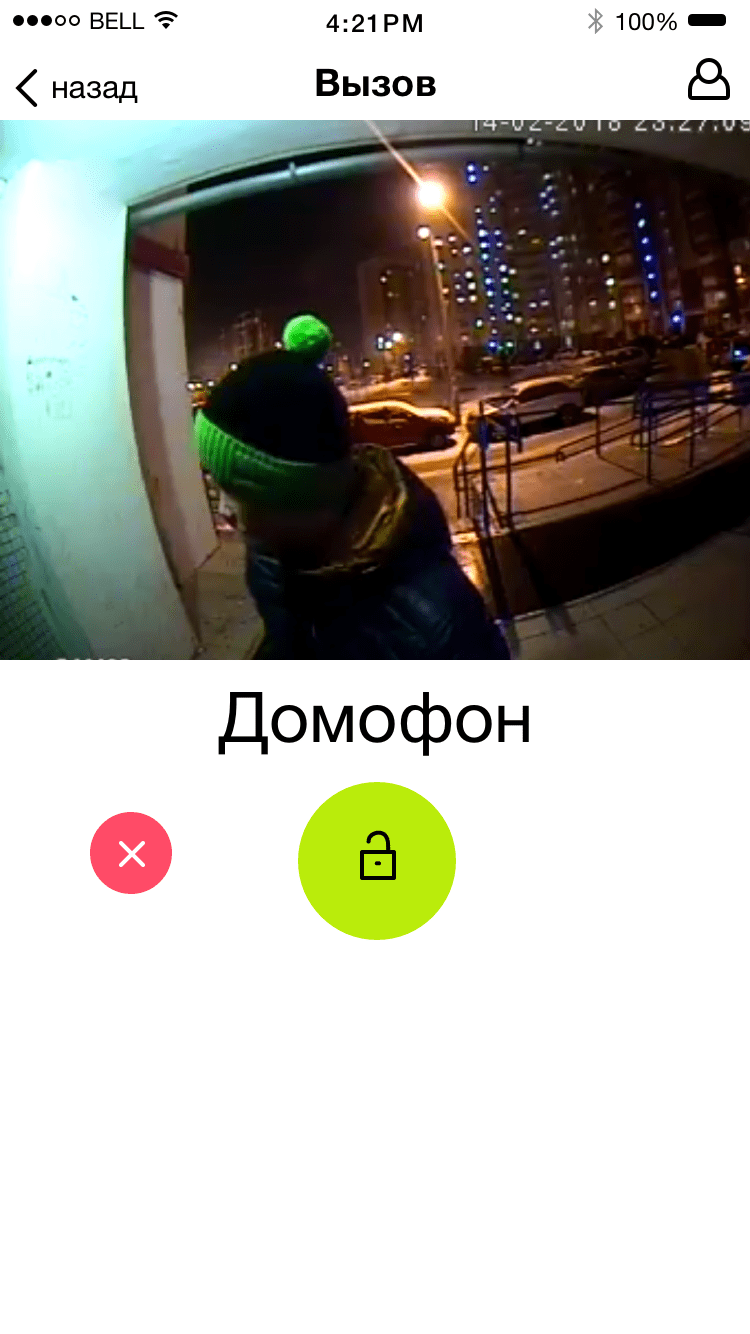
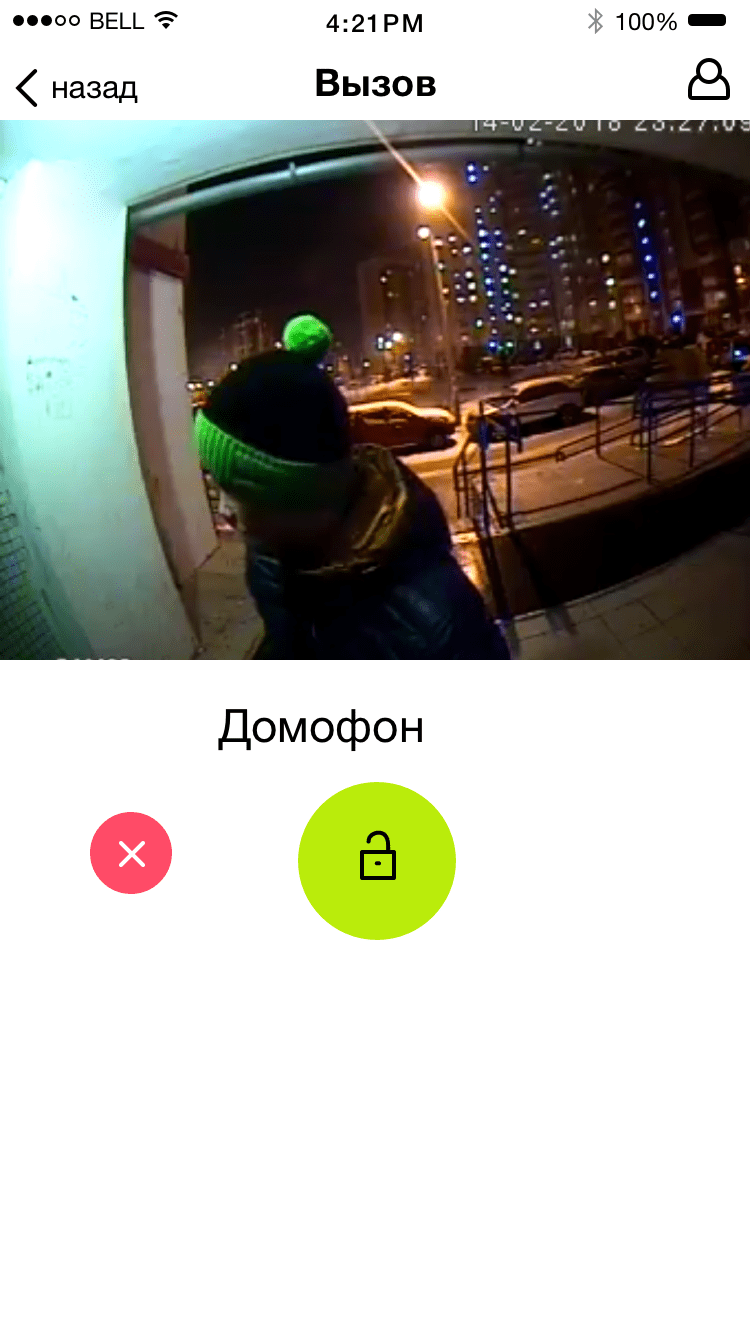
fadsf

Changed region(s): [[0.276, 0.4918, 0.7053, 0.584], [0.2453, 0.3073, 0.3373, 0.3688]]

diff --git a/intercom/index 4.html b/intercom/index 4.html
@@ -1,0 +1,73 @@
+<!DOCTYPE html>
+<html xmlns="http://www.w3.org/1999/xhtml">
+<head>
+<meta http-equiv="Content-Type" content="text/html; charset=UTF-8" />
+
+    <title>Росдомофон</title>
+
+    <link href="css/style.css" type="text/css" rel="stylesheet" />
+
+    <script type="text/javascript" src="js/jquery-1.8.3.min.js"></script>
+    <script type="text/javascript" src="js/main.js"></script>
+
+	<script type="text/javascript">
+		$(document).ready(function(){
+            init();
+		});
+
+	</script>
+
+	<style>
+
+	</style>
+
+</head>
+
+<body>
+
+<p>Итак, начну с обрамления камеры в некий блок. Я попробовал сделать «рамочку» для камеры и эта идея мне не понравилась, и вот почему.</p>
+    <p>Посомтри как выглядел инстаграмм лет 7 назад, когда еще был модный скеоморфизм:
+    </p>
+    <img src="img/ins01.png">
+    <p>А как он выглядит сейчас. Понимаешь разницу? :-)</p>
+    <img src="img/ins02.png">
+    <p>
+        У рамочки есть недостаток: когда камера одна (а обычно так и будет), то эта рамочка выглядит глупо. Я понимаю, что ее можно сделать более изящно, выдрачить каждый пиксель, но она не станет от этого менее странной. Да и пиксели она съедает, это будет хорошо заметно на маленьких телефонах.
+    </p>
+    <img src="img/00@2x.png" class="iphone6">
+    <br>
+<p>Вот новое решение, которое учитывает твои пожелания. А именно, сразу видно, к чему относятся управляющие элементы за счет того, как кнопка «цепляется» за фотку. Замочек теперь такой же, как на экране входящего звонка.</p>
+<p>Убрал акцент с названия камеры. Все-таки, это не новостной заголовок и надпись всегда будет одна и та же. Более того, в теории его можно убрать и ничего не изменится, потому что по картинке все ясно.</p>
+<p>Опять же, такая расстановка требует меньше места на экране. Да и просто более современно выглядит, а-ля матеирал-дизайн.</p>
+    <img src="img/01@2x.png" class="iphone6">
+    <img src="img/02@2x.png" class="iphone6">
+    <br>
+    <img src="img/03@2x.png" class="iphone6">
+    <img src="img/04@2x.png" class="iphone6">
+    <br>
+    <img src="img/05@2x.png" class="iphone6">
+    <img src="img/06@2x.png" class="iphone6">
+    <br>
+    <img src="img/07@2x.png" class="iphone6">
+    <img src="img/08@2x.png" class="iphone6">
+    <img src="img/09@2x.png" class="iphone6">
+    <img src="img/10@2x.png" class="iphone6">
+    <br>
+<p>Теперь давай разберем историю.</p>
+<p>Я честным образом хотел сделать дату сверху, а «открытие» снизу и наоборот, но каждый раз это превращалось в фигню.</p>
+<p>Как ни разделяй два блока друг от друга, к фотке будет «прилипать» чужая дата. И не нужно смотреть на инстаграмм, там все логично: начинается фото с красивой аватарки автора, а заканчивается перепиской из каментов. По автору часто понятно, пропускать незагруженное еще фото или остаться ненадолго.</p>
+<p>На этом моменте, кстати, я бы попросил перестать сравнивать наше приложение с истаграммом :-) Вот когда в Сибири начнут пальмы расти, как на Бали, тогда и фотки будут красивые. Тогда и приложение сразу будет иначе выглядеть. А пока что, я пытаюсь сделать «как у них» и это заранее провальное сравнение.</p>
+<p>Не будет как в инстаграме, будет хуже всегда.</p>
+    <img src="img/11@2x.png" class="iphone6">
+    <br>
+<p>Немного прилизанная версия прошлой истории.</p>
+    <img src="img/12@2x.png" class="iphone6">
+    <br>
+
+
+
+</body>
+</html>
+
+
+
